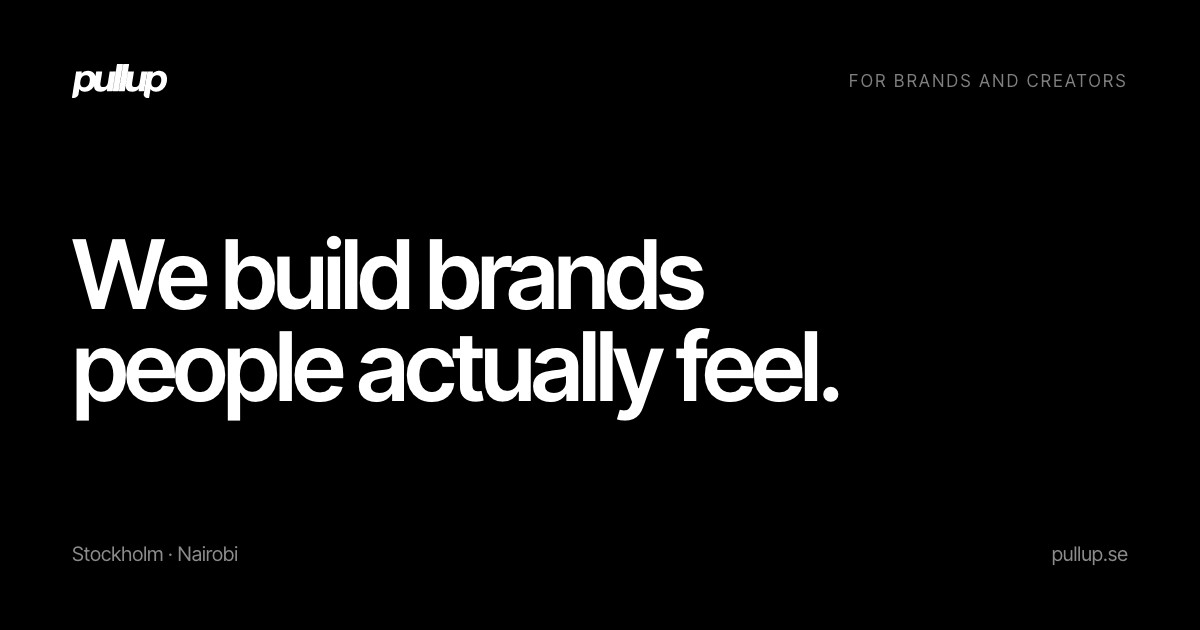
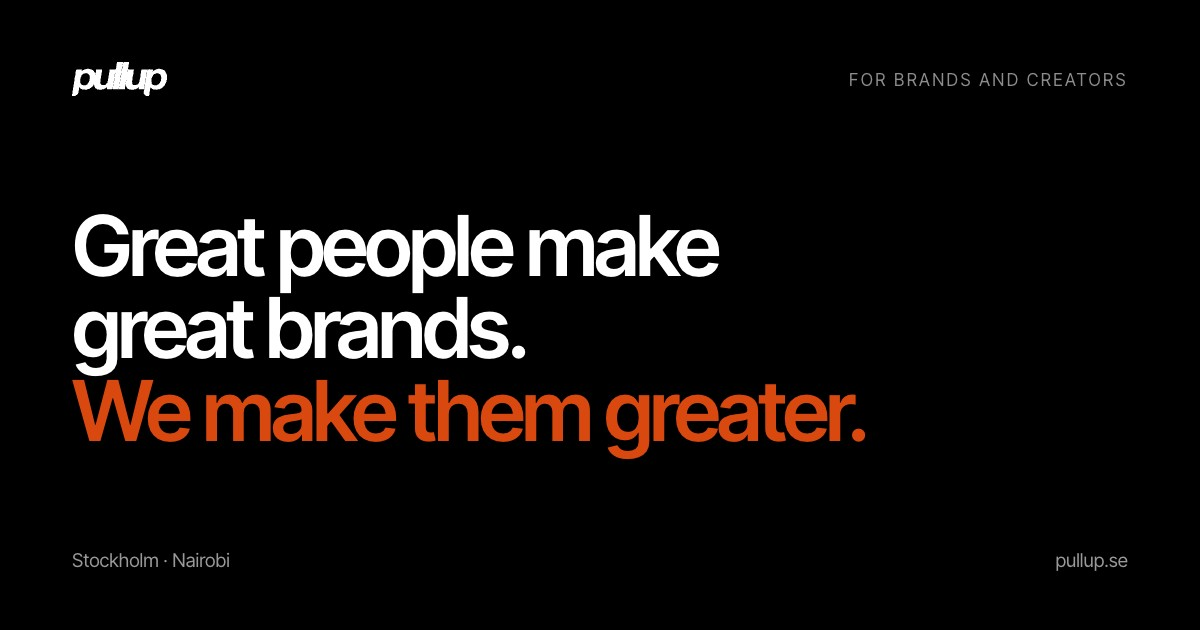
copy(agency): 'Great people make great brands. We make them greater.'
Hero kicker in orange; tighter sub-line; page title, meta, OG/Twitter text,
JSON-LD and the share card (og-agency.jpg, v=3) all carry the new line
(they still said 'We build brands people actually feel').

diff --git a/frontend/index.html b/frontend/index.html
@@ -8,9 +8,9 @@
     />
 
     <!-- Primary Meta -->
-    <title>PullUp — We build brands people actually feel</title>
-    <meta name="title" content="PullUp — We build brands people actually feel" />
-    <meta name="description" content="We build brands people actually feel. Thirty minutes of you a week, a week of content that sounds like you — published on every channel, measured and grown." />
+    <title>PullUp — Great people make great brands</title>
+    <meta name="title" content="PullUp — Great people make great brands" />
+    <meta name="description" content="Great people make great brands. We make them greater — strategy, content, community and growth for brands and creators, with the numbers to show it." />
     <link rel="canonical" href="https://pullup.se/" />
 
     <!-- Open Graph. Absolute URLs so strict crawlers (Instagram via Facebook)
@@ -21,21 +21,21 @@
     <meta property="og:url" content="https://pullup.se/" />
     <meta property="og:site_name" content="PullUp" />
     <meta property="og:locale" content="en_US" />
-    <meta property="og:title" content="We build brands people actually feel." />
-    <meta property="og:description" content="We build brands people actually feel. Thirty minutes of you a week, a week of content that sounds like you — published on every channel, measured and grown." />
-    <meta property="og:image" content="https://pullup.se/og-agency.jpg?v=2" />
-    <meta property="og:image:secure_url" content="https://pullup.se/og-agency.jpg?v=2" />
+    <meta property="og:title" content="Great people make great brands. We make them greater." />
+    <meta property="og:description" content="Great people make great brands. We make them greater — strategy, content, community and growth for brands and creators, with the numbers to show it." />
+    <meta property="og:image" content="https://pullup.se/og-agency.jpg?v=3" />
+    <meta property="og:image:secure_url" content="https://pullup.se/og-agency.jpg?v=3" />
     <meta property="og:image:type" content="image/jpeg" />
     <meta property="og:image:width" content="1200" />
     <meta property="og:image:height" content="630" />
-    <meta property="og:image:alt" content="PullUp — We build brands people actually feel. For brands and creators, Stockholm and Nairobi." />
+    <meta property="og:image:alt" content="PullUp — Great people make great brands. For brands and creators, Stockholm and Nairobi." />
 
     <!-- Twitter / X -->
     <meta name="twitter:card" content="summary_large_image" />
-    <meta name="twitter:title" content="We build brands people actually feel." />
-    <meta name="twitter:description" content="We build brands people actually feel. Thirty minutes of you a week, a week of content that sounds like you — published on every channel, measured and grown." />
-    <meta name="twitter:image" content="https://pullup.se/og-agency.jpg?v=2" />
-    <meta name="twitter:image:alt" content="PullUp — We build brands people actually feel. For brands and creators, Stockholm and Nairobi." />
+    <meta name="twitter:title" content="Great people make great brands. We make them greater." />
+    <meta name="twitter:description" content="Great people make great brands. We make them greater — strategy, content, community and growth for brands and creators, with the numbers to show it." />
+    <meta name="twitter:image" content="https://pullup.se/og-agency.jpg?v=3" />
+    <meta name="twitter:image:alt" content="PullUp — Great people make great brands. For brands and creators, Stockholm and Nairobi." />
 
     <!-- Structured data: who we are and what we sell -->
     <script type="application/ld+json">
@@ -43,11 +43,11 @@
         "@context": "https://schema.org",
         "@type": "ProfessionalService",
         "name": "PullUp",
-        "alternateName": "PullUp — We build brands people actually feel",
+        "alternateName": "PullUp — Great people make great brands",
         "url": "https://pullup.se/",
         "logo": "https://pullup.se/pwa-icon-512.png",
-        "image": "https://pullup.se/og-agency.jpg?v=2",
-        "description": "We build brands people actually feel. Thirty minutes of you a week, a week of content that sounds like you — published on every channel, measured and grown.",
+        "image": "https://pullup.se/og-agency.jpg?v=3",
+        "description": "Great people make great brands. We make them greater — strategy, content, community and growth for brands and creators, with the numbers to show it.",
         "email": "hello@pullup.se",
         "areaServed": ["Stockholm", "Nairobi", "Worldwide"],
         "makesOffer": [

diff --git a/frontend/src/pages/LandingPage.jsx b/frontend/src/pages/LandingPage.jsx
@@ -18,8 +18,8 @@ import { Toolkit, TOOLKIT_CSS } from "../components/agency/Toolkit.jsx";
 import { openRequest } from "../components/agency/request.js";
 import { useT } from "../components/agency/i18n.js";
 
-/* The public front door. One message (MESSAGE): we grow the people who grow
-   the brand. Readable without reading: the hero's three-step flow, a coloured
+/* The public front door. One message (MESSAGE): great people make great
+   brands — we make them greater. Readable without reading: the hero's three-step flow, a coloured
    scoreboard (one number per story), then the stories — each one a headline,
    person → brand, and a chart of its real numbers (agencyData SERIES) —
    then what you get → the toolkit, pulled in as needed → the one offer
@@ -146,7 +146,7 @@ function AgencyPage() {
             <p className="pc-eyebrow">{t("For brands and creators · Stockholm · Nairobi")}</p>
           </Reveal>
           <Reveal delay={0.08}>
-            <h1 className="pc-hero-h">{t(MESSAGE.promise)}</h1>
+            <h1 className="pc-hero-h">{t(MESSAGE.promise)} <span>{t(MESSAGE.kicker)}</span></h1>
           </Reveal>
           <Reveal delay={0.16}>
             <p className="pc-hero-sub">
@@ -435,8 +435,9 @@ const STYLES = `
   .pc-hero-h {
     font-size: clamp(40px, min(8.6vw, 10vh), 128px);
     font-weight: 600; line-height: 0.96; letter-spacing: -0.045em;
-    max-width: 14ch;
+    max-width: 16ch;
   }
+  .pc-hero-h span { display: block; color: #D9480F; }
   .pc-hero-sub {
     margin-top: clamp(20px, 3.4vh, 44px);
     max-width: 64ch;

diff --git a/frontend/src/components/agency/i18n/sv.js b/frontend/src/components/agency/i18n/sv.js
@@ -700,4 +700,7 @@ export const SV = {
   "We don't promise growth. We show it.": "Vi lovar inte tillväxt. Vi visar den.",
   "Six people. Six brands. And the numbers to prove it.": "Sex människor. Sex varumärken. Och siffrorna som bevisar det.",
   "How we got there": "Så kom vi dit",
+  "Great people make great brands.": "Bra människor bygger bra varumärken.",
+  "We make them greater.": "Vi gör dem ännu större.",
+  "Founders, artists, the faces behind it. Thirty minutes a week becomes content, community and reach — with the numbers to show it.": "Grundare, artister, ansiktena bakom. Trettio minuter i veckan blir innehåll, community och räckvidd – med siffrorna som visar det.",
 };

diff --git a/frontend/src/components/agency/i18n/sw.js b/frontend/src/components/agency/i18n/sw.js
@@ -700,4 +700,7 @@ export const SW = {
   "We don't promise growth. We show it.": "Hatuahidi ukuaji. Tunauonyesha.",
   "Six people. Six brands. And the numbers to prove it.": "Watu sita. Chapa sita. Na takwimu za kuthibitisha.",
   "How we got there": "Jinsi tulivyofika",
+  "Great people make great brands.": "Watu bora hujenga chapa bora.",
+  "We make them greater.": "Tunawafanya kuwa bora zaidi.",
+  "Founders, artists, the faces behind it. Thirty minutes a week becomes content, community and reach — with the numbers to show it.": "Waanzilishi, wasanii, nyuso nyuma yake. Dakika thelathini kwa wiki zinakuwa maudhui, jamii na ufikiaji — pamoja na takwimu za kuonyesha.",
 };

diff --git a/frontend/src/components/agency/agencyData.js b/frontend/src/components/agency/agencyData.js
@@ -11,8 +11,9 @@ export const DECK_PDF = "/the-production-core.pdf";
 
 // The one message. Hero, services, booklet and meta all say it this way.
 export const MESSAGE = {
-  promise: "We grow the people who grow your brand.",
-  deal: "Founders, artists and the faces behind a brand are the brand. We turn 30 minutes of them a week into content, community and reach — and show you the numbers.",
+  promise: "Great people make great brands.",
+  kicker: "We make them greater.",
+  deal: "Founders, artists, the faces behind it. Thirty minutes a week becomes content, community and reach — with the numbers to show it.",
 };
 
 export const mailto = (subject) =>
